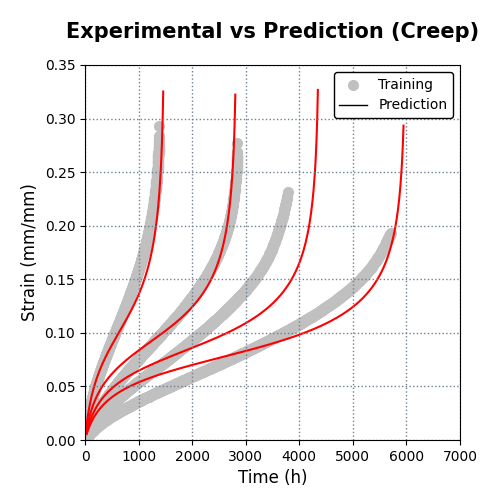
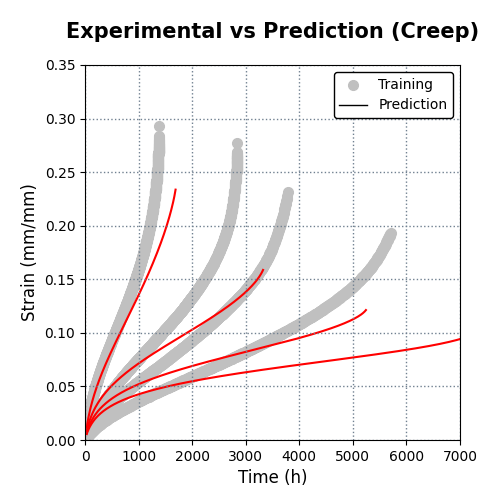
Added new params to sem results file

diff --git a/moga_neml/optimise/recorder.py b/moga_neml/optimise/recorder.py
@@ -340,7 +340,7 @@ class Recorder:
             # Get loss data
             reduction_method = self.controller.get_objective_reduction_method()
             loss = self.optimal_solution_list[-1][reduction_method]
-            self.loss_history["loss"].append(loss)
+            self.loss_history["loss"].append(round(loss, 6))
             self.loss_history["generations"].append(self.num_gens_completed)
 
             # Write loss data

diff --git a/scripts/plot_sem/plot_evpcd_800.py b/scripts/plot_sem/plot_evpcd_800.py
@@ -16,9 +16,7 @@ api.read_data("tensile/inl/AirBase_800_D7.csv")
 api.add_error("dummy")
 
 params_str = """
-22.393	462.57	0.13573	4.314	1828.1	1912.9	5.5169	6.9639
-33.297	522.85	0.11871	3.9767	1762.4	1913.8	5.6638	11.287
-33.54	461.39	0.11174	3.9844	1798.2	1956.2	5.6525	11.933
+37.742	49.123	2.4996	3.4102	3172	2704.5	5.1187	9.9024
 """
 params_list = [list(map(float, line.split())) for line in params_str.strip().split("\n")]
 

diff --git a/scripts/plot_sem/plot_evpcd_900.py b/scripts/plot_sem/plot_evpcd_900.py
@@ -17,7 +17,7 @@ api.read_data("tensile/inl/AirBase_900_D10.csv")
 api.add_error("dummy")
 
 params_str = """
-9.344	45.972	2.5375	3.4094	1902	2101.5	4.3022	6.1081
+4.634	18.607	24.896	3.3436	1999.7	2639.7	4.377	21.834
 """
 params_list = [list(map(float, line.split())) for line in params_str.strip().split("\n")]
 
